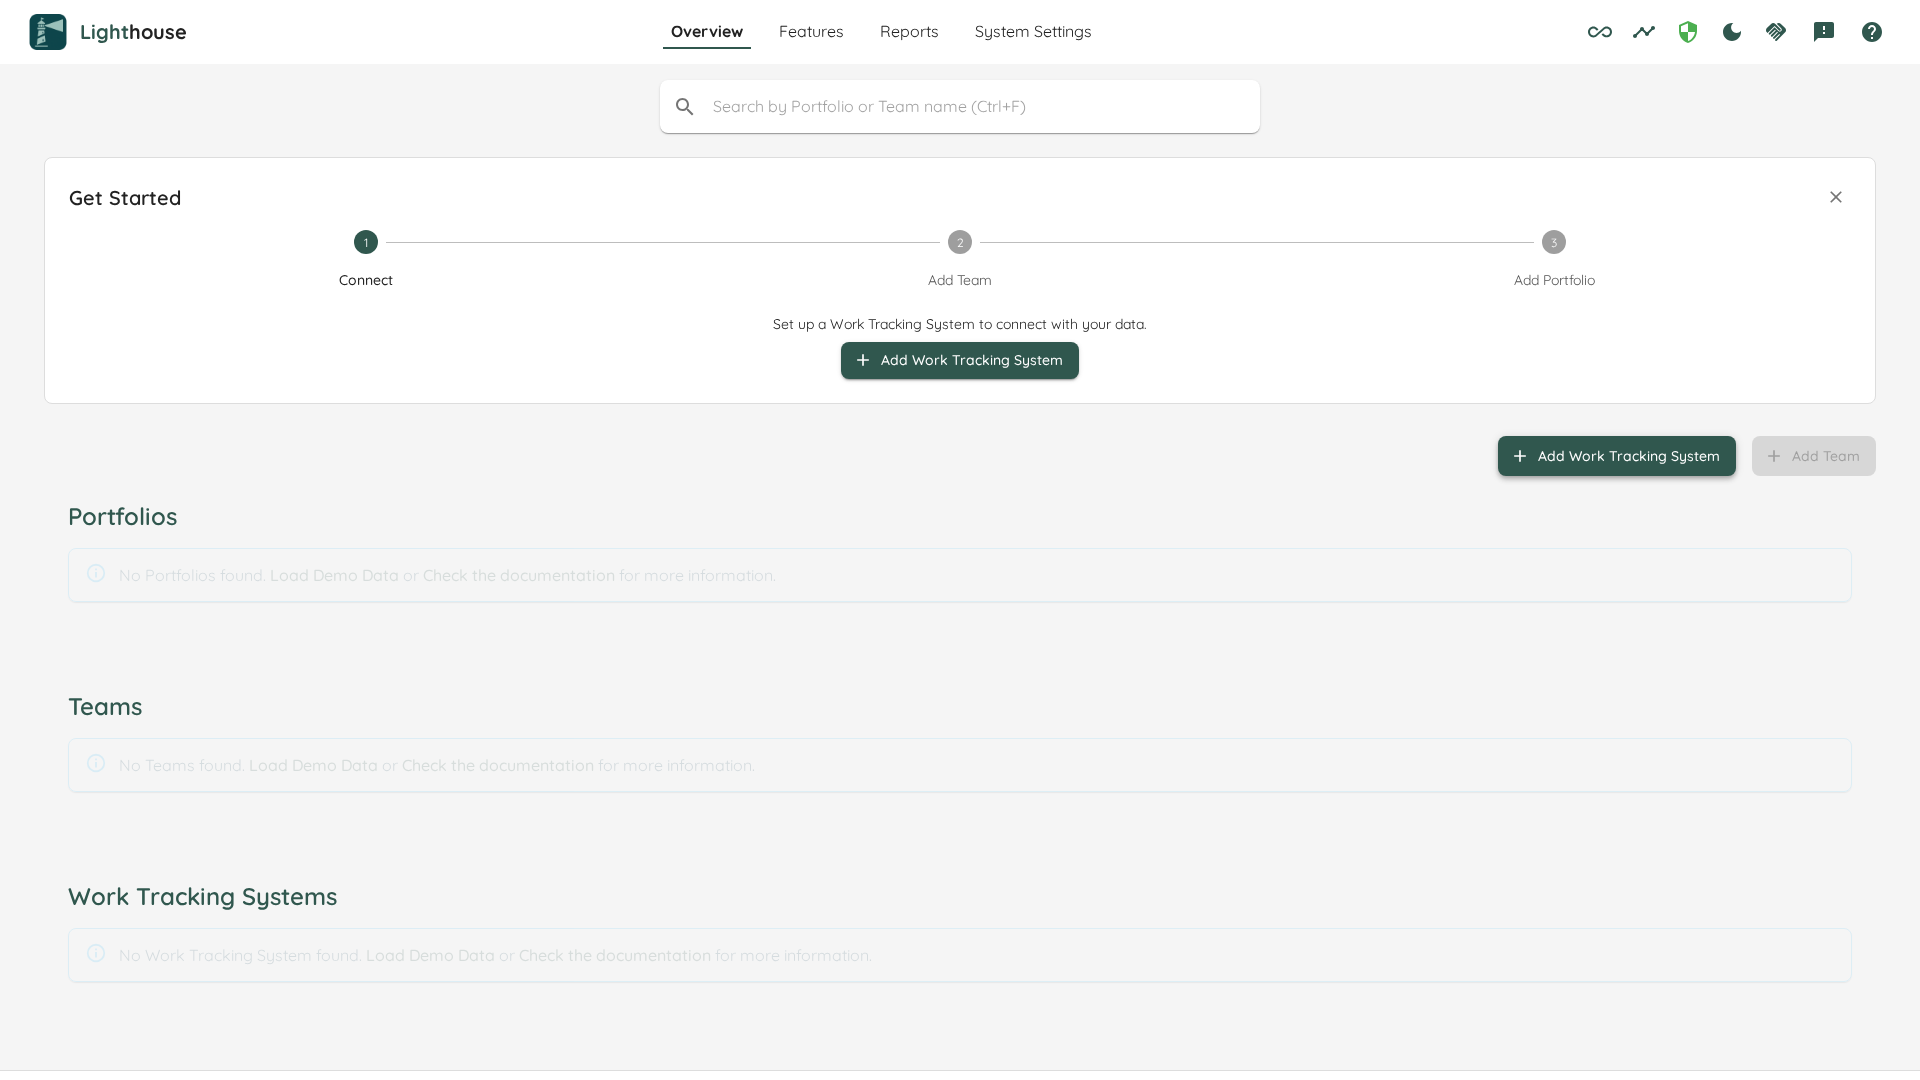
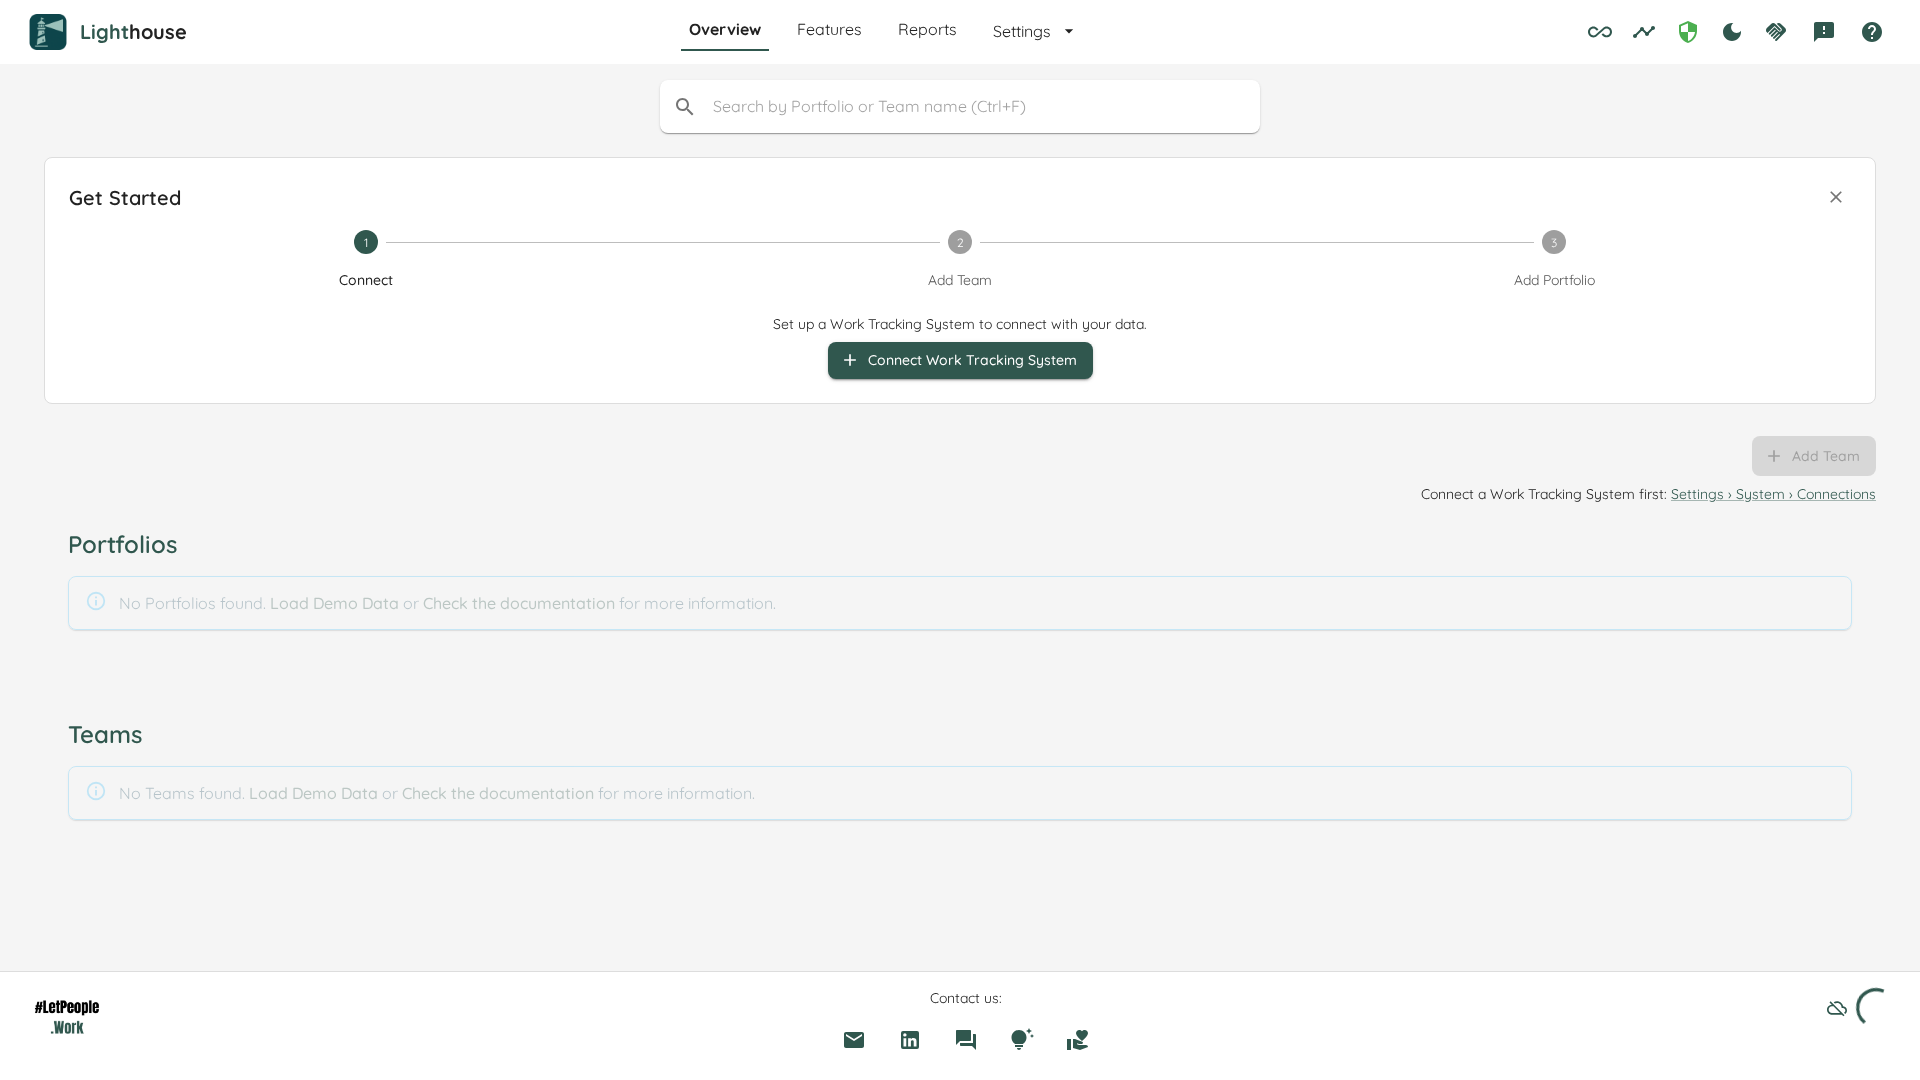
docs(release): Overview screenshots without connections, and shots of the Settings menu and a Team's rules for all units
The Overview lost its Work Tracking Systems section and button to System, Connections, and the header's
System Settings link became a Settings menu, so the landing page and populated Overview shots showed a
page that no longer exists. Both were deleted first so the pixel guard could not keep the old image.

Two new shots: the Settings menu with its three areas (settings.md) and a Team's Access tab listing the
rules for all Teams and Portfolios that also reach it (rbac.md). The second is an @auth test; it seeds
an Admin-on-all group rule and the everyone-signed-in switch through the API and removes both in a
finally, because the CI @auth run shares one database with ApiKeys and ViewerEmbedSession.

Claude-Session: https://claude.ai/code/session_01ToezcTN2hvQz47Zt7AjmcT

diff --git a/Lighthouse.EndToEndTests/tests/specs/screenshots/AuthScreenshots.spec.ts b/Lighthouse.EndToEndTests/tests/specs/screenshots/AuthScreenshots.spec.ts
@@ -3,12 +3,22 @@ import test, { expect } from "@playwright/test";
 import { TestConfig } from "../../../playwright.config";
 import { testWithAuth } from "../../fixutres/LighthouseFixture";
 import {
+	loadDemoScenario,
+	waitForBackgroundUpdates,
+} from "../../helpers/api/demo";
+import {
+	addRuleForAllUnits,
+	letEveryoneSignedInView,
+	removeRulesForAllUnits,
+} from "../../helpers/api/systemWideAccess";
+import {
 	takeDialogScreenshot,
 	takePageScreenshot,
 } from "../../helpers/screenshots";
 import { LighthousePage } from "../../models/app/LighthousePage";
 import { BlockedPage } from "../../models/auth/BlockedPage";
 import type { LoginPage } from "../../models/auth/LoginPage";
+import { ScopedAccessPage } from "../../models/auth/rbac/ScopedAccessPage";
 import { OverviewPage } from "../../models/overview/OverviewPage";
 
 const LICENSE_FILE_PATH = path.join(
@@ -103,6 +113,51 @@ test.describe("@screenshot @auth", () => {
 				groupMappingsSection,
 				"settings/rbac_groupmapping.png",
 			);
+		},
+	);
+
+	testWithAuth(
+		"Take @screenshot @auth of the rules for all units on a Team's Access tab",
+		async ({ loginPage }) => {
+			const overview = await loginAsWithLicense(
+				loginPage,
+				TestConfig.AUTH_TEST_USER_USERNAME,
+				TestConfig.AUTH_TEST_USER_PASSWORD,
+			);
+
+			const settingsPage = await overview.lightHousePage.goToSettings();
+			const rbac = await settingsPage.goToRbacSettings();
+			await expect(rbac.usersTable).toBeVisible();
+			if (await rbac.bootstrapBanner.isVisible()) {
+				await rbac.becomeFirstSystemAdmin();
+			}
+
+			const request = overview.page.request;
+			await loadDemoScenario(request, 0);
+			await waitForBackgroundUpdates(request);
+			await addRuleForAllUnits(
+				request,
+				TestConfig.TEAMADMIN_GROUP_NAME,
+				"UnitAdmin",
+			);
+			await letEveryoneSignedInView(request, true);
+
+			try {
+				await overview.lightHousePage.goToOverview();
+				const team = await overview.goToTeam("Team Zenith");
+				const access = new ScopedAccessPage(team.page);
+				await access.goToAccessTab();
+				await expect(access.systemWideRulesNotice).toBeVisible();
+				await expect(access.membersTable).toBeVisible();
+
+				await takePageScreenshot(
+					team.page,
+					"settings/rbac_systemwiderules_notice.png",
+				);
+			} finally {
+				await letEveryoneSignedInView(request, false);
+				await removeRulesForAllUnits(request, TestConfig.TEAMADMIN_GROUP_NAME);
+			}
 		},
 	);
 

diff --git a/Lighthouse.EndToEndTests/tests/helpers/api/systemWideAccess.ts b/Lighthouse.EndToEndTests/tests/helpers/api/systemWideAccess.ts
@@ -1,0 +1,79 @@
+import type { APIRequestContext } from "@playwright/test";
+
+const EVERYONE_SIGNED_IN_URL = "/api/latest/authorization/everyone-signed-in";
+const GROUP_MAPPINGS_URL = "/api/latest/authorization/group-mappings";
+
+type EveryoneSignedIn = {
+	everyoneCanView: boolean;
+	concurrencyToken: string;
+};
+
+type GroupMapping = {
+	id: number;
+	groupValue: string;
+	scopeType: string;
+};
+
+/** Switches "Everyone signed in can view all Teams and Portfolios". Needs a System Admin session. */
+export async function letEveryoneSignedInView(
+	request: APIRequestContext,
+	everyoneCanView: boolean,
+): Promise<void> {
+	const current = await request.get(EVERYONE_SIGNED_IN_URL);
+	if (!current.ok()) {
+		throw new Error(
+			`Failed to read the everyone-signed-in switch: ${current.status()}`,
+		);
+	}
+
+	const setting = (await current.json()) as EveryoneSignedIn;
+	const response = await request.put(EVERYONE_SIGNED_IN_URL, {
+		data: { ...setting, everyoneCanView },
+	});
+	if (!response.ok()) {
+		throw new Error(
+			`Failed to switch everyone-signed-in to ${everyoneCanView}: ${response.status()}`,
+		);
+	}
+}
+
+/** Adds an SSO group rule that reaches every Team and Portfolio. Needs a System Admin session. */
+export async function addRuleForAllUnits(
+	request: APIRequestContext,
+	groupValue: string,
+	role: "Viewer" | "UnitAdmin",
+): Promise<void> {
+	const response = await request.post(GROUP_MAPPINGS_URL, {
+		data: { groupValue, role, scopeType: "AllUnits" },
+	});
+	if (!response.ok()) {
+		throw new Error(
+			`Failed to add the rule for all units for ${groupValue}: ${response.status()}`,
+		);
+	}
+}
+
+/** Removes the group's rules for all Teams and Portfolios, so later specs meet none. */
+export async function removeRulesForAllUnits(
+	request: APIRequestContext,
+	groupValue: string,
+): Promise<void> {
+	const current = await request.get(GROUP_MAPPINGS_URL);
+	if (!current.ok()) {
+		throw new Error(`Failed to read the group mappings: ${current.status()}`);
+	}
+
+	const mappings = (await current.json()) as GroupMapping[];
+	for (const mapping of mappings) {
+		if (mapping.groupValue === groupValue && mapping.scopeType === "AllUnits") {
+			const response = await request.delete(
+				`${GROUP_MAPPINGS_URL}/${mapping.id}`,
+			);
+			if (!response.ok()) {
+				throw new Error(
+					`Failed to remove group mapping ${mapping.id}: ${response.status()}`,
+				);
+			}
+		}
+	}
+}

diff --git a/Lighthouse.EndToEndTests/tests/specs/screenshots/Screenshots.spec.ts b/Lighthouse.EndToEndTests/tests/specs/screenshots/Screenshots.spec.ts
@@ -54,6 +54,13 @@ test("Take @screenshot of empty overview page", async ({ overviewPage }) => {
 	await takePageScreenshot(overviewPage.page, "installation/landingpage.png");
 });
 
+test("Take @screenshot of the Settings menu", async ({ overviewPage }) => {
+	const menu = await overviewPage.lightHousePage.openSettingsMenu();
+	await expect(menu.getByRole("menuitem")).toHaveCount(3);
+
+	await takePageScreenshot(overviewPage.page, "settings/settingsmenu.png");
+});
+
 test("Take @screenshot of licensing", async ({ overviewPage }) => {
 	await overviewPage.lightHousePage.showLicenseTooltip();
 

diff --git a/Lighthouse.EndToEndTests/tests/models/app/LighthousePage.ts b/Lighthouse.EndToEndTests/tests/models/app/LighthousePage.ts
@@ -99,6 +99,14 @@ export class LighthousePage {
 		return settingsPage;
 	}
 
+	/** Opens the header's Settings menu and returns it, with one entry per area the viewer may open. */
+	async openSettingsMenu(): Promise<Locator> {
+		await this.page.getByTestId("settings-menu").click();
+		const menu = this.page.getByRole("menu");
+		await expect(menu).toBeVisible();
+		return menu;
+	}
+
 	/** System, Connections, where connections are added, edited and removed. */
 	async goToConnections(): Promise<SystemConnectionsPage> {
 		const settingsPage = await this.goToSettings();

diff --git a/Lighthouse.EndToEndTests/tests/models/auth/rbac/ScopedAccessPage.ts b/Lighthouse.EndToEndTests/tests/models/auth/rbac/ScopedAccessPage.ts
@@ -43,6 +43,13 @@ export class ScopedAccessPage {
 	// Member assignments
 	// -------------------------------------------------------------------------
 
+	/** The read-only notice listing the rules for all Teams and Portfolios that also reach this unit. */
+	get systemWideRulesNotice(): Locator {
+		return this.page.getByRole("alert").filter({
+			has: this.page.getByText(/^Also reachable through access to all/),
+		});
+	}
+
 	get membersTable(): Locator {
 		return this.page.getByTestId("scoped-members-table");
 	}

diff --git a/docs/settings/rbac.md b/docs/settings/rbac.md
@@ -270,6 +270,8 @@ Turn this on only if everyone who can sign in to Lighthouse may see all your tea
 
 A team's or portfolio's **Access** tab shows, read-only, under **Also reachable through access to all Teams and Portfolios**, every rule that also reaches it: the role and the group, or *everyone signed in*. Removing someone from the list below does not take away what these rules give, and only a System Admin changes them. While the tab checks, it shows *Checking access to all Teams and Portfolios…*. If the check fails, it says more people may reach the team than listed, and asks you to reload.
 
+![A Team's Access tab listing the rules for all Teams and Portfolios that also reach it](../assets/settings/rbac_systemwiderules_notice.png)
+
 In **Settings → Access**, the Users table column and filter **No direct role** mean a person has no role of their own. Such a person may still read through a system-wide rule.
 
 ### When a change takes effect
